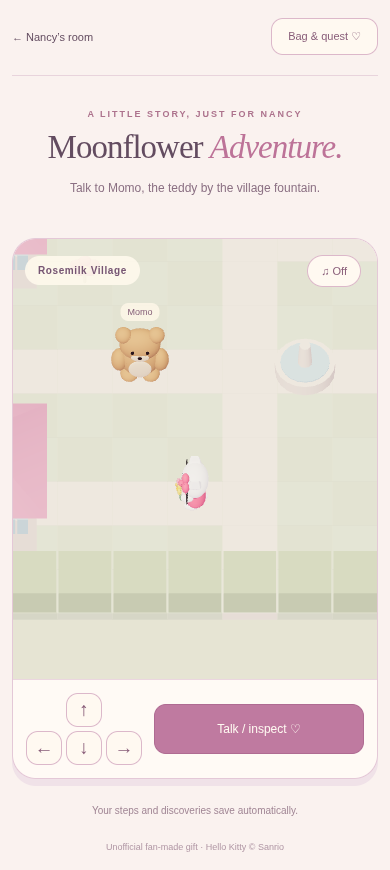
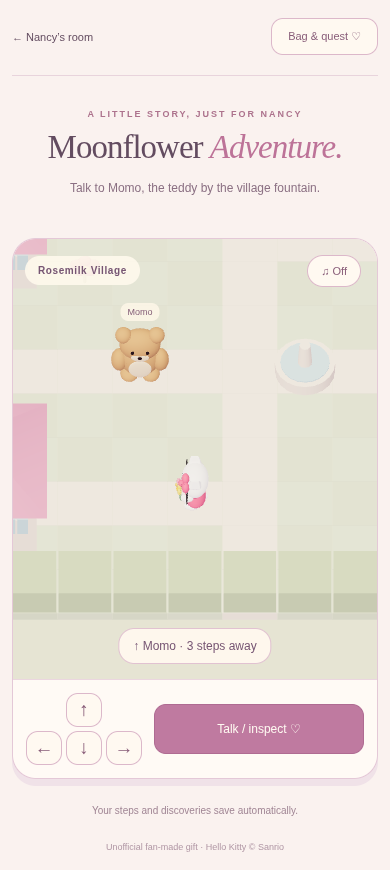
Make the dungeon entrance usable with interaction and guide players to it

Changed region(s): [[0.3077, 0.7138, 0.7077, 0.7759]]

diff --git a/dist/adventure.css b/dist/adventure.css
@@ -1,2 +1,3 @@
 *{box-sizing:border-box}[hidden]{display:none!important}:root{color-scheme:light}body{margin:0;background:#faf2ef;color:#634c60;font-family:'Avenir Next',-apple-system,BlinkMacSystemFont,'Segoe UI',sans-serif}button,a{-webkit-tap-highlight-color:transparent}button{font:inherit;cursor:pointer}a{color:inherit;text-decoration:none}button:focus-visible,a:focus-visible,canvas:focus-visible{outline:3px solid #a86b97;outline-offset:4px}button{border:1px solid #dcb8ca;border-radius:12px;background:#fff9f1;color:#885c78;padding:11px 16px}button:disabled{opacity:.5}.adventure-shell{max-width:1120px;margin:auto;padding:25px 30px}header{display:flex;justify-content:space-between;align-items:center;border-bottom:1px solid #e8d4dc;padding-bottom:20px;gap:15px}header a{font-size:12px}header>span{font-size:8px;letter-spacing:1.4px;color:#a17c90}.adventure-heading{text-align:center;padding:26px 0 22px}.adventure-heading>p:first-child,.eyebrow{font-size:9px;letter-spacing:2px;color:#ad738d;font-weight:700}.adventure-heading h1{font:42px/1.15 Georgia,serif;letter-spacing:-1px;margin:10px 0}.adventure-heading h1 em{font-weight:400;color:#bd7398}.adventure-heading #quest{font-size:13px;color:#8b7083;line-height:1.6;margin-bottom:0}.world-frame{overflow:hidden;border:1px solid #e4c8d7;border-radius:24px;background:#fffaf5;box-shadow:0 7px 0 #f0e2e8}#world{position:relative;height:540px;background:#f0dce7;touch-action:none}#world canvas{width:100%;height:100%;display:block;touch-action:none}#area{position:absolute;left:20px;top:20px;font-size:11px;font-weight:650;letter-spacing:.6px;color:#765573;background:#fff9ede0;padding:9px 13px;border-radius:16px}#sound{position:absolute;right:16px;top:16px;font-size:11px;padding:9px 13px;border-radius:20px}#loading,#error{position:absolute;inset:0;background:#f8e8ef;display:grid;place-content:center;text-align:center;padding:30px;z-index:3}#loading{font:italic 24px Georgia,serif}#error p{max-width:320px;line-height:1.7}#error a{font-size:13px;margin-top:18px;text-decoration:underline}#notice{position:absolute;left:50%;bottom:17px;transform:translateX(-50%);width:max-content;max-width:90%;border:1px solid #e1c2d1;border-radius:20px;background:#fff8eef0;padding:11px 16px;font-size:12px;line-height:1.5;text-align:center;opacity:0;pointer-events:none}#notice.visible{opacity:1}.adventure-controls{display:flex;justify-content:space-between;align-items:center;gap:25px;padding:17px 24px;border-top:1px solid #ebd6df}.adventure-controls p{flex:1;font-size:11px;line-height:1.8;color:#9c7f91}.adventure-controls>#interact{background:#bf7aa0;color:#fff9f1;border-color:#af6b92;min-width:160px;padding:16px}.dpad{display:grid;grid-template-columns:repeat(3,37px);grid-template-rows:repeat(2,33px);gap:4px}.dpad button{padding:0;font-size:19px;touch-action:none;user-select:none}.dpad [data-direction=up]{grid-column:2}.dpad [data-direction=left]{grid-column:1;grid-row:2}.dpad [data-direction=down]{grid-column:2;grid-row:2}.dpad [data-direction=right]{grid-column:3;grid-row:2}.save-note{text-align:center;font-size:11px;color:#a08594;margin:23px 0}footer{text-align:center;font-size:9px;color:#b096a4}dialog{max-width:450px;width:calc(100% - 30px);max-height:85dvh;overflow:auto;border:1px solid #dab6cf;border-radius:22px;padding:29px;background:#fff8ee;color:#72536b;box-shadow:0 20px 80px #67485a33}dialog::backdrop{background:#69455b55;backdrop-filter:blur(4px)}dialog h2{font:29px Georgia,serif;margin:13px 0}dialog p{font-size:14px;line-height:1.8;color:#92768b}#storyChoices{display:flex;flex-direction:column;gap:9px;margin:18px 0}#storyChoices button{background:#f4dfeb;text-align:left}#closeStory,#backToWorld{width:100%;background:#be7b9e;color:#fff9f3}#returnRoom{display:block;text-align:center;background:#f0dbe6;border-radius:12px;padding:13px;margin-top:10px}#closeBag{position:absolute;top:9px;right:10px;font-size:22px;border:0;background:none;padding:3px 8px}#charms{display:flex;gap:10px;margin:20px 0}#charms span{flex:1;text-align:center;font-size:12px;padding:17px 5px;border:1px solid #e5cedb;border-radius:12px;background:#f4e2ea}#charms .missing{opacity:.45}@media(max-width:640px){.adventure-shell{padding:18px 12px}header{gap:8px}header>span{display:none}header button,header a{font-size:11px}.adventure-heading{padding:24px 5px 20px}.adventure-heading h1{font-size:33px}.adventure-heading #quest{font-size:12px;min-height:39px}#world{height:440px}.adventure-controls{padding:13px;gap:12px}.adventure-controls p{display:none}.adventure-controls>#interact{min-width:0;flex:1;font-size:12px;padding:17px 10px}.dpad{grid-template-columns:repeat(3,36px);grid-template-rows:repeat(2,34px)}#area{left:12px;top:17px;font-size:10px}#notice{font-size:11px}dialog{padding:25px 22px}.save-note{font-size:10px;line-height:1.7}}@media(prefers-reduced-motion:reduce){*{scroll-behavior:auto!important;transition:none!important;animation:none!important}}
 .world-label{position:absolute;transform:translate(-50%,-100%);pointer-events:none;color:#866079;font-size:9px;white-space:nowrap;padding:4px 7px;border-radius:8px;background:#fff7e9cf}
+#wayfinder{position:absolute;left:50%;bottom:15px;transform:translateX(-50%);margin:0;max-width:92%;width:max-content;padding:10px 14px;border:1px solid #e1c2d1;border-radius:16px;background:#fff8eef2;color:#765573;font-size:12px;text-align:center;pointer-events:none}#notice.visible{bottom:65px}

diff --git a/dist/adventure-state.js b/dist/adventure-state.js
@@ -17,29 +17,55 @@ export function normalizeAdventure(raw={}){
 export function questText(s){
  if(s.complete)return 'Moonflower restored! A little happy ending for Nancy.';
  if(!s.accepted)return 'Talk to Momo, the teddy by the village fountain.';
- if(s.map==='village')return 'Enter the pink arch in the northeast corner.';
+ if(s.map==='village')return 'Enter Moonflower Garden, the dungeon through the pink arch in the upper-right.';
  if(s.charms.length<3)return `Open the three treasure chests: ${s.charms.length} / 3 moon charms.`;
  if(!s.guardian)return 'Help the cloud guardian beside the moon gate.';
  if(!s.gate)return 'Open the moon gate in the northern wall.';
  return 'Reach the moonflower shrine beyond the gate.';
 }
+function enterPath(s,tile){
+ if(tile==='D'){
+  if(!s.accepted)return {moved:false,message:'Momo has a little adventure for you. Talk to the teddy first. ♡'};
+  s.map='garden';[s.x,s.z]=MAPS.garden.spawn;
+ }else{s.map='village';[s.x,s.z]=[12,3];}
+ return {moved:true,changedMap:true};
+}
 export function moveAdventure(s,direction){
  const delta=DIRECTIONS[direction];if(!delta)return {moved:false};s.facing=direction;
  const [dx,dz]=delta,x=s.x+dx,z=s.z+dz;if(!walkable(s,x,z))return {moved:false};
  const tile=MAPS[s.map].rows[z][x];
- if(tile==='D'){
-  if(!s.accepted)return {moved:false,message:'Momo has a little adventure for you. Talk to the teddy first. ♡'};
-  s.map='garden';[s.x,s.z]=MAPS.garden.spawn;return {moved:true,changedMap:true};
- }
- if(tile==='E'){s.map='village';[s.x,s.z]=[12,3];return {moved:true,changedMap:true};}
+ if(tile==='D'||tile==='E')return enterPath(s,tile);
  s.x=x;s.z=z;return {moved:true};
 }
 export function nearbyObject(s){
  const [dx,dz]=DIRECTIONS[s.facing];
  return MAPS[s.map].objects.find(o=>o.x===s.x+dx&&o.z===s.z+dz)||MAPS[s.map].objects.find(o=>Math.abs(o.x-s.x)+Math.abs(o.z-s.z)===1||o.type==='H'&&Math.max(Math.abs(o.x-s.x),Math.abs(o.z-s.z))===2);
 }
+// Give the next walkable step, including when the entrance is outside the camera.
+export function villageDirections(s){
+ if(s.map!=='village')return '';
+ const target=MAPS.village.objects.find(o=>o.type===(s.accepted?'D':'M'));
+ const name=s.accepted?'Dungeon entrance':'Momo';
+ const queue=[{x:s.x,z:s.z,first:null,steps:0}],seen=new Set([`${s.x},${s.z}`]);
+ for(let i=0;i<queue.length;i++){
+  const p=queue[i];
+  if(Math.abs(p.x-target.x)+Math.abs(p.z-target.z)===1){
+   if(!p.steps)return s.accepted?'Pink arch · press Enter dungeon to go inside':'Momo is beside you · press Talk to Momo';
+   return `${{up:'↑',down:'↓',left:'←',right:'→'}[p.first]} ${name} · ${p.steps} ${p.steps===1?'step':'steps'} away`;
+  }
+  for(const [d,[dx,dz]] of Object.entries(DIRECTIONS)){
+   const x=p.x+dx,z=p.z+dz,key=`${x},${z}`;
+   if(!seen.has(key)&&walkable(s,x,z)){seen.add(key);queue.push({x,z,first:p.first||d,steps:p.steps+1});}
+  }
+ }
+ return `${name} · follow the cream path`;
+}
 export function interactAdventure(s,choice){
  const o=nearbyObject(s);if(!o)return {speaker:'Kitty',text:'Let’s look around. Walk next to a friend, a chest, or a sign, then interact.'};
+ if(o.type==='D'||o.type==='E'){
+  const result=enterPath(s,o.type);
+  return result.changedMap?result:{speaker:'Dungeon entrance',text:result.message};
+ }
  if(o.type==='M'){
   if(choice==='accept')s.accepted=true;
   return {speaker:'Momo',text:s.complete?'The garden is glowing again. You brought a little kindness to this world, Nancy. ♡':s.accepted?'Three moon charms are hidden in the garden chests. Enter the pink arch in the northeast. The cloud by the gate could use a kind friend, too.':'Nancy, the moonflower has lost its glow. Will you help me find its three moon charms?',choices:s.accepted?[]:[{id:'accept',label:'Let’s help!'}]};

diff --git a/dist/adventure.js b/dist/adventure.js
@@ -3,7 +3,7 @@ import {CanvasFallback} from './CanvasFallback.js';
 import {loadBlenderKitty,makeBlenderKitty,reactBlender,updateBlender} from './blender-kitty.js';
 import {makeGift,setHeldGift} from './gifts.js';
 import {RoomSound} from './sound.js';
-import {MAPS,normalizeAdventure,questText,moveAdventure,nearbyObject,interactAdventure,claimAdventureReward} from './adventure-state.js';
+import {MAPS,normalizeAdventure,questText,moveAdventure,nearbyObject,interactAdventure,claimAdventureReward,villageDirections} from './adventure-state.js';
 const $=id=>document.getElementById(id),KEY='kitty-nancy-adventure-v1';
 function read(key){try{return JSON.parse(localStorage.getItem(key)||'{}')||{};}catch{return {};}}
 const state=normalizeAdventure(read(KEY)),sound=new RoomSound();
@@ -17,11 +17,15 @@ function notice(text){$('notice').textContent=text;$('notice').classList.add('vi
 function modal(){return $('story').open||$('inventory').open;}
 function refreshUI(){
  $('quest').textContent=questText(state);$('area').textContent=MAPS[state.map].title;
- const o=nearbyObject(state);$('interact').textContent=({'M':'Talk to Momo','C':'Open chest','G':'Moon gate','Q':'Cloud guardian','S':'Moonflower shrine','F':'Make a little wish','o':'Little flowers','H':'Cozy cottage','T':'Little lantern'})[o?.type]||'Talk / inspect ♡';
+ const o=nearbyObject(state);$('interact').textContent=({'M':'Talk to Momo','D':'Enter dungeon','E':'Back to village','C':'Open chest','G':'Moon gate','Q':'Cloud guardian','S':'Moonflower shrine','F':'Make a little wish','o':'Little flowers','H':'Cozy cottage','T':'Little lantern'})[o?.type]||'Talk / inspect ♡';
+ $('wayfinder').textContent=villageDirections(state);$('wayfinder').hidden=state.map!=='village';
  $('interact').disabled=!ready||!!motion||modal();
  for(const {object,mesh} of rendered){if(object.type==='G')mesh.visible=!state.gate;if(object.type==='C')mesh.children[0].rotation.x=state.charms.includes(object.id)?-.55:0;}
 }
 function showStory(result){
+ if(result.changedMap){
+  pressed=queued=null;buildWorld();player.position.set(state.x,0,state.z);followCamera(true);save();refreshUI();renderer.domElement.focus();return;
+ }
  pressed=queued=null;$('speaker').textContent=result.speaker;$('storyWords').textContent=result.text;
  $('storyChoices').replaceChildren();
  for(const choice of result.choices||[]){const button=document.createElement('button');button.textContent=choice.label;button.onclick=()=>showStory(interactAdventure(state,choice.id));$('storyChoices').append(button);}
@@ -112,7 +116,7 @@ function buildWorld(){
    mesh(g,cube,mats.pink,0,.17,0,.61,.31,.45);mesh(g,cube,mats.cream,0,.24,.235,.12,.17,.025);
   }
   if(object.type==='G'){arch(g);mesh(g,cube,mats.gold,0,.55,0,.7,.75,.08);label('Moon gate',object.x,1.5,object.z);}
-  if(object.type==='D'||object.type==='E'){arch(g);mesh(g,cube,mats.cream,0,.015,0,.8,.04,.8);label(object.type==='D'?'Garden path':'Village path',object.x,1.45,object.z);}
+  if(object.type==='D'||object.type==='E'){arch(g);mesh(g,cube,mats.cream,0,.015,0,.8,.04,.8);label(object.type==='D'?'Dungeon entrance':'Village path',object.x,1.45,object.z);}
   if(object.type==='F'){
    mesh(g,new THREE.CylinderGeometry(.55,.55,.25,20),mats.cream,0,.12,0);mesh(g,new THREE.CylinderGeometry(.45,.45,.02,20),mats.water,0,.26,0);mesh(g,new THREE.CylinderGeometry(.10,.14,.65,12),mats.cream,0,.45,0);
   }

diff --git a/dist/adventure.html b/dist/adventure.html
@@ -1,6 +1,6 @@
 <!doctype html><html lang="en"><head><meta charset="utf-8"><meta name="viewport" content="width=device-width,initial-scale=1,viewport-fit=cover"><meta name="theme-color" content="#faf0f1"><title>Nancy’s Moonflower Adventure</title><link rel="stylesheet" href="./adventure.css"><script type="importmap">{"imports":{"three":"./vendor/three.module.js"}}</script></head><body>
 <main class="adventure-shell"><header><a href="./">← Nancy’s room</a><span>HELLO KITTY · A LITTLE ADVENTURE</span><button id="bag">Bag &amp; quest ♡</button></header><section class="adventure-heading"><p>A LITTLE STORY, JUST FOR NANCY</p><h1>Moonflower <em>Adventure.</em></h1><p id="quest" role="status">Getting your little adventure ready…</p></section>
-<section class="world-frame"><div id="world"><span id="area">Rosemilk Village</span><button id="sound" aria-pressed="false" aria-label="Turn sound on">♫ Off</button><div id="loading" role="status">Packing your little adventure…</div><div id="error" hidden><h2>Kitty needs a moment.</h2><p>The adventure couldn’t load. Try reloading or return to Nancy’s room.</p><button id="retry">Try again</button><a href="./">Back to the room</a></div><p id="notice" role="status"></p></div>
+<section class="world-frame"><div id="world"><span id="area">Rosemilk Village</span><button id="sound" aria-pressed="false" aria-label="Turn sound on">♫ Off</button><div id="loading" role="status">Packing your little adventure…</div><div id="error" hidden><h2>Kitty needs a moment.</h2><p>The adventure couldn’t load. Try reloading or return to Nancy’s room.</p><button id="retry">Try again</button><a href="./">Back to the room</a></div><p id="wayfinder" hidden></p><p id="notice" role="status"></p></div>
 <div class="adventure-controls"><div class="dpad" aria-label="Move Kitty"><button data-direction="up" aria-label="Walk north">↑</button><button data-direction="left" aria-label="Walk west">←</button><button data-direction="down" aria-label="Walk south">↓</button><button data-direction="right" aria-label="Walk east">→</button></div><p>Arrow keys or WASD to walk.<br>Enter / Space to talk or inspect.</p><button id="interact" disabled>Talk / inspect ♡</button></div></section>
 <p class="save-note" id="saveStatus">A gentle adventure. Your discoveries save here automatically.</p><footer>Unofficial fan-made gift · Hello Kitty © Sanrio</footer></main>
 <dialog id="story" aria-labelledby="speaker"><span class="eyebrow">A LITTLE MOMENT</span><h2 id="speaker"></h2><p id="storyWords"></p><div id="storyChoices"></div><button id="closeStory">Keep exploring</button><a id="returnRoom" href="./" hidden>Back to Nancy’s room ♡</a></dialog>

diff --git a/tests/adventure-browser.py b/tests/adventure-browser.py
@@ -12,7 +12,7 @@ with sync_playwright() as p:
  maps=page.evaluate("async()=>{const {MAPS}=await import('./adventure-state.js');return MAPS;}")
  def state():return page.evaluate("JSON.parse(localStorage.getItem('kitty-nancy-adventure-v1'))")
  keys={'up':'ArrowUp','down':'ArrowDown','left':'ArrowLeft','right':'ArrowRight'}
- def move_to(x,z):
+ def move_to(x,z,touch=False):
   s=state();rows=maps[s['map']]['rows'];q=deque([(s['x'],s['z'],[])]);seen={(s['x'],s['z'])};path=None
   while q:
    a,c,route=q.popleft()
@@ -26,7 +26,8 @@ with sync_playwright() as p:
     seen.add((nx,nz));q.append((nx,nz,route+[(d,nx,nz)]))
   assert path is not None,(s,x,z)
   for d,nx,nz in path:
-   page.keyboard.press(keys[d])
+   if touch:page.locator('[data-direction="'+d+'"]').tap()
+   else:page.keyboard.press(keys[d])
    if rows[nz][nx] in 'DE':page.wait_for_function("arg=>JSON.parse(localStorage.getItem('kitty-nancy-adventure-v1')).map!==arg",arg=s['map'])
    else:page.wait_for_function("p=>{const s=JSON.parse(localStorage.getItem('kitty-nancy-adventure-v1'));return s.x===p[0]&&s.z===p[1]}",arg=[nx,nz])
   page.wait_for_function("!document.querySelector('#interact').disabled")
@@ -35,7 +36,10 @@ with sync_playwright() as p:
  def close():page.locator('#closeStory').click()
  page.screenshot(path=str(out/'nancy-adventure-village.png'),full_page=True)
  move_to(5,6);talk();page.get_by_role('button',name='Let’s help!').click();assert state()['accepted'];close()
- move_to(12,2);assert state()['map']=='garden'
+ assert 'Dungeon entrance' in page.locator('#wayfinder').inner_text()
+ move_to(12,3);assert 'press Enter dungeon' in page.locator('#wayfinder').inner_text()
+ page.get_by_role('button',name='Enter dungeon',exact=True).click();assert state()['map']=='garden'
+ assert page.locator('#wayfinder').is_hidden() and page.locator('#story').is_hidden()
  page.screenshot(path=str(out/'nancy-adventure-garden.png'),full_page=True)
  for x,z in [(3,8),(11,8),(4,11)]:move_to(x,z);face('up');talk();close()
  assert len(state()['charms'])==3
@@ -56,5 +60,9 @@ with sync_playwright() as p:
  m.locator('[data-direction="left"]').tap();m.wait_for_function("JSON.parse(localStorage.getItem('kitty-nancy-adventure-v1')).x===6")
  assert m.evaluate('document.documentElement.scrollWidth<=innerWidth');m.screenshot(path=str(out/'nancy-adventure-mobile.png'),full_page=True)
  m.locator('#bag').tap();assert m.locator('#inventory').is_visible();m.locator('#backToWorld').tap();assert not errors,errors
- print('PASS: real keyboard route, village dialogue, all dungeon chests, reload, guardian turns, gate, shrine, one reward, room integration, mobile controls and bag')
+ page=m
+ move_to(5,6,touch=True);m.get_by_role('button',name='Talk to Momo',exact=True).tap();m.get_by_role('button',name='Let’s help!').tap();m.locator('#closeStory').tap()
+ move_to(12,3,touch=True);m.get_by_role('button',name='Enter dungeon',exact=True).tap();assert state()['map']=='garden'
+ assert m.locator('#story').is_hidden() and not errors,errors
+ print('PASS: keyboard and touch dungeon entry, direction hints, village dialogue, all dungeon chests, reload, guardian turns, gate, shrine, one reward, room integration and bag')
  b.close()

diff --git a/README.md b/README.md
@@ -73,6 +73,11 @@ open three treasure chests, help the cloud guardian in a three-turn conversation
 open the moon gate, and restore Nancy’s moonflower at the shrine. The current
 chapter has one village, one dungeon, and a complete ending. There is no timer.
 
+To reach the dungeon, stand beside Momo and choose **Talk to Momo → Let’s help!**.
+Follow the direction hint to the upper-right pink arch, then choose **Enter
+dungeon**, press Enter/Space, or walk through it. The same entrance works from
+either side of the arch. The hint stays visible when the entrance is off-screen.
+
 Use arrow keys/WASD to walk and Enter/Space to interact. A direction pad and an
 interaction button support touch. **Bag & quest** shows the objective and three
 charms. The camera follows Kitty, with reduced-motion support. House/hedge tiles
